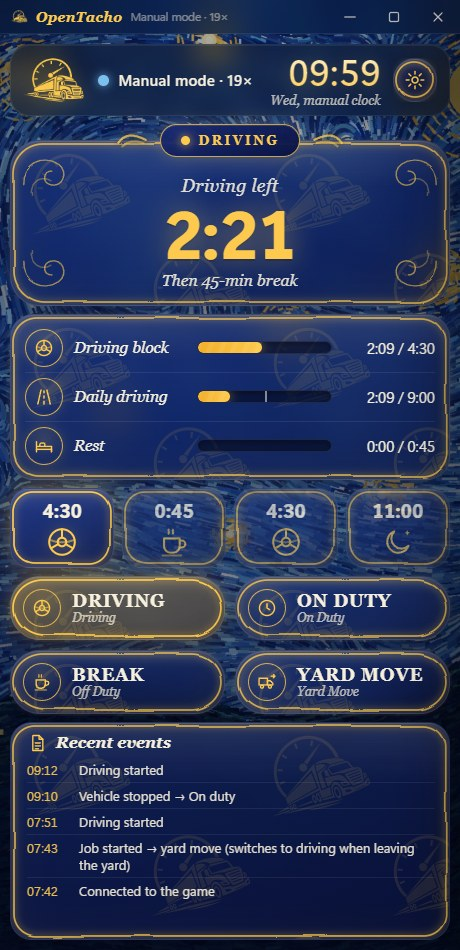
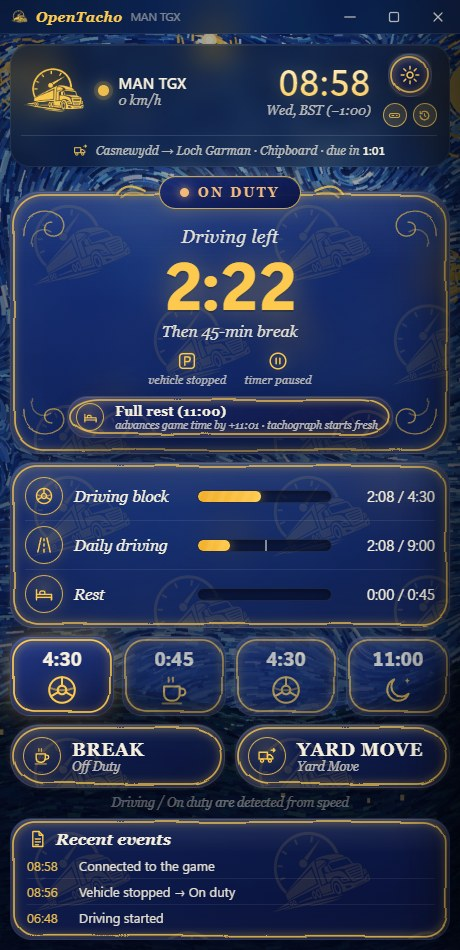
Tour steps for full rest and tachograph history; new README screenshots
- Guided tour: dedicated steps for the Full rest button and the history panel
  (opens the panel while explaining it), in all five languages.
- Screenshots retaken for every language: main window with the quick buttons and
  the Full rest button, plus a new history.jpg showing the tachograph history.

diff --git a/app/main.html b/app/main.html
@@ -1163,6 +1163,7 @@
   // ---- ilk açılış: dil seçimi + rehber turu ----
   let onboardShown = false, tourOn = false, tourI = -1;
   function openDrawer(page) {
+    closeHist();
     document.body.classList.add("open");
     if (page) {
       document.querySelectorAll(".tab").forEach(x => x.classList.toggle("on", x.dataset.page === page));
@@ -1193,9 +1194,11 @@
     { k: "seq", t: "#seq" },
     { k: "btns", t: "#btns" },
     { k: "skip", t: () => ($("skip").hidden ? "#hero" : "#skip") },
+    { k: "fullrest", t: () => ($("fullRest").hidden ? "#hero" : "#fullRest") },
     { k: "log", t: ".log" },
-    { k: "gear", t: "#gear", pre: () => closeDrawer() },
-    { k: "quick", t: ".quick", pre: () => closeDrawer() },
+    { k: "gear", t: "#gear", pre: () => { closeDrawer(); closeHist(); } },
+    { k: "quick", t: ".quick", pre: () => { closeDrawer(); closeHist(); } },
+    { k: "hist", t: "#histDrawer h3", pre: () => openHist() },
     { k: "tab_clock", t: '.tab[data-page="saat"]', pre: () => openDrawer("saat") },
     { k: "tab_rules", t: '.tab[data-page="kural"]', pre: () => openDrawer("kural") },
     { k: "tab_game", t: '.tab[data-page="oyun"]', pre: () => openDrawer("oyun") },
@@ -1241,7 +1244,7 @@
     requestAnimationFrame(placeTour); setTimeout(placeTour, 340);   // yan panel animasyonu bitince yeniden hizala
   }
   function startTour() { closeAllDD(); tourOn = true; $("tour").hidden = false; showTour(0); }
-  async function endTour() { tourOn = false; $("tour").hidden = true; closeDrawer(); await call("set_onboarded", true); }
+  async function endTour() { tourOn = false; $("tour").hidden = true; closeDrawer(); closeHist(); await call("set_onboarded", true); }
   $("tourNext").addEventListener("click", () => tourI >= TOUR.length - 1 ? endTour() : showTour(tourI + 1));
   $("tourPrev").addEventListener("click", () => { if (tourI > 0) showTour(tourI - 1); });
   $("tourSkip").addEventListener("click", endTour);

diff --git a/README.ru.md b/README.ru.md
@@ -14,8 +14,9 @@
 **Только Windows 10/11** — плагин телеметрии передаёт данные через общую память Windows, а приложение использует Windows API для горячей клавиши, звуков и команды консоли. Linux (нативный ETS2 / Proton) и macOS не поддерживаются.
 
 <p align="center">
-  <img src="docs/screenshots/ru/main.jpg" width="300" alt="Главное окно">
-  <img src="docs/screenshots/ru/settings-rules.jpg" width="300" alt="Настройки – вкладка Правила">
+  <img src="docs/screenshots/ru/main.jpg" width="280" alt="Главное окно">
+  <img src="docs/screenshots/ru/history.jpg" width="280" alt="История тахографа">
+  <img src="docs/screenshots/ru/settings-rules.jpg" width="280" alt="Настройки – вкладка Правила">
 </p>
 <p align="center">
   <img src="docs/screenshots/ru/mini.png" width="540" alt="Мини-панель поверх игры">

diff --git a/README.de.md b/README.de.md
@@ -14,8 +14,9 @@ Spielstände, Anhänger beladen), damit du einfach fahren kannst.
 **Nur Windows 10/11** — das Telemetrie-Plugin teilt seine Daten über den gemeinsamen Speicher von Windows, und die App nutzt Windows-APIs für Hotkey, Töne und den Konsolenbefehl. Linux (natives ETS2 / Proton) und macOS werden nicht unterstützt.
 
 <p align="center">
-  <img src="docs/screenshots/de/main.jpg" width="300" alt="Hauptfenster">
-  <img src="docs/screenshots/de/settings-rules.jpg" width="300" alt="Einstellungen – Reiter Regeln">
+  <img src="docs/screenshots/de/main.jpg" width="280" alt="Hauptfenster">
+  <img src="docs/screenshots/de/history.jpg" width="280" alt="Tachographen-Verlauf">
+  <img src="docs/screenshots/de/settings-rules.jpg" width="280" alt="Einstellungen – Reiter Regeln">
 </p>
 <p align="center">
   <img src="docs/screenshots/de/mini.png" width="540" alt="Mini-Leiste über dem Spiel">

diff --git a/README.pl.md b/README.pl.md
@@ -14,8 +14,9 @@ zostało, i ogarnia niewygodne przypadki (promy, sen, strefy czasowe, wczytywani
 **Tylko Windows 10/11** — wtyczka telemetrii udostępnia dane przez pamięć współdzieloną Windows, a aplikacja używa Windows API do skrótu klawiszowego, dźwięków i polecenia konsoli. Linux (natywny ETS2 / Proton) i macOS nie są wspierane.
 
 <p align="center">
-  <img src="docs/screenshots/pl/main.jpg" width="300" alt="Główne okno">
-  <img src="docs/screenshots/pl/settings-rules.jpg" width="300" alt="Ustawienia – karta Zasady">
+  <img src="docs/screenshots/pl/main.jpg" width="280" alt="Główne okno">
+  <img src="docs/screenshots/pl/history.jpg" width="280" alt="Historia tachografu">
+  <img src="docs/screenshots/pl/settings-rules.jpg" width="280" alt="Ustawienia – karta Zasady">
 </p>
 <p align="center">
   <img src="docs/screenshots/pl/mini.png" width="540" alt="Mini pasek nad grą">

diff --git a/README.md b/README.md
@@ -14,8 +14,9 @@ loading) so you can just drive.
 **Windows 10/11 only** — the telemetry plugin shares data through Windows shared memory and the app uses Windows APIs for the hotkey, sounds and the console command. Linux (native ETS2 / Proton) and macOS are not supported.
 
 <p align="center">
-  <img src="docs/screenshots/en/main.jpg" width="300" alt="Main window">
-  <img src="docs/screenshots/en/settings-rules.jpg" width="300" alt="Settings – Rules tab">
+  <img src="docs/screenshots/en/main.jpg" width="280" alt="Main window">
+  <img src="docs/screenshots/en/history.jpg" width="280" alt="Tachograph history">
+  <img src="docs/screenshots/en/settings-rules.jpg" width="280" alt="Settings – Rules tab">
 </p>
 <p align="center">
   <img src="docs/screenshots/en/mini.png" width="540" alt="Mini strip over the game">

diff --git a/README.tr.md b/README.tr.md
@@ -14,8 +14,9 @@ halleder.
 **Yalnızca Windows 10/11** — telemetri eklentisi veriyi Windows paylaşımlı belleğiyle aktarır; kısayol, ses ve konsol komutu da Windows API'leri kullanır. Linux (yerel ETS2 / Proton) ve macOS desteklenmez.
 
 <p align="center">
-  <img src="docs/screenshots/tr/main.jpg" width="300" alt="Ana pencere">
-  <img src="docs/screenshots/tr/settings-rules.jpg" width="300" alt="Ayarlar – Kurallar sekmesi">
+  <img src="docs/screenshots/tr/main.jpg" width="280" alt="Ana pencere">
+  <img src="docs/screenshots/tr/history.jpg" width="280" alt="Takograf geçmişi">
+  <img src="docs/screenshots/tr/settings-rules.jpg" width="280" alt="Ayarlar – Kurallar sekmesi">
 </p>
 <p align="center">
   <img src="docs/screenshots/tr/mini.png" width="540" alt="Oyunun üstünde mini şerit">
